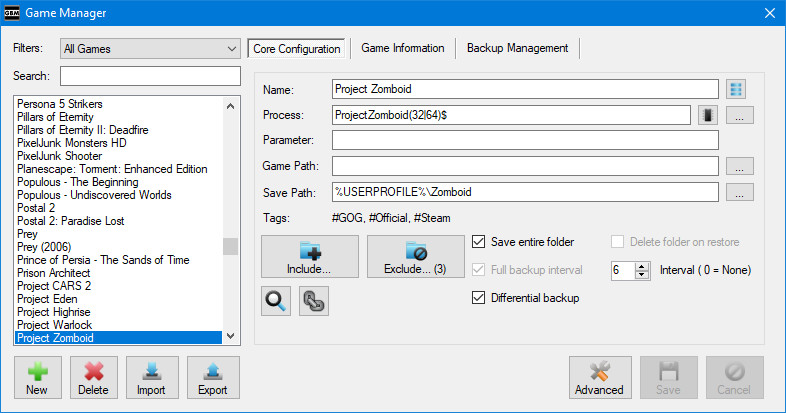
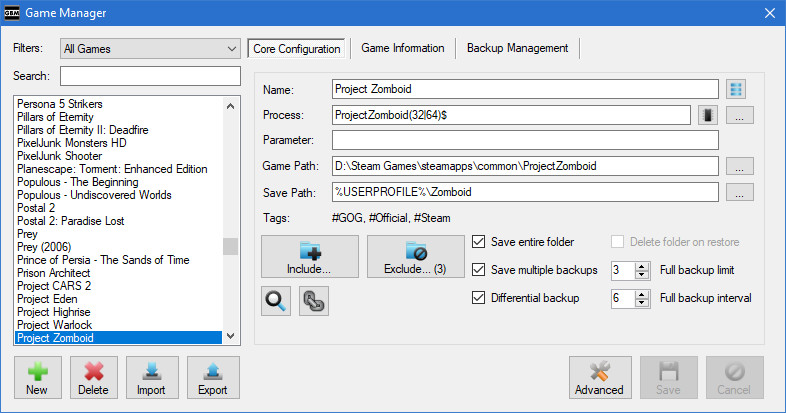
Updates for v128 release

diff --git a/manual.html b/manual.html
@@ -33,7 +33,7 @@
             Game Backup Monitor v1.2.8 Manual
           </div>
           <div class="pageSectionContent">
-            <h3 class="notop">Updated July 23, 2021</h3>
+            <h3 class="notop">Updated August 3, 2021</h3>
             <h3>Important Notes:</h3>
             <p>An offline version of the manual is available <a href="https://github.com/Darthagnon/gbm-manual">here</a>.  The offline manual is kindly provided by <a href="https://github.com/Darthagnon">Darthagnon</a>.</p>
             <p>This manual may contain information about features not available in the current stable release.</p>
@@ -434,8 +434,9 @@
             <p>GBM checks for dangerous configurations in which this option should not be used and disables it, but even so use caution with this option.</p>
             <h4>Save Multiple Backups:</h4>
             <p>This indicates if you want GBM to keep multiple backups for that game.  When using this option you can set a limit on the amount of backups to keep, any value from 0 to 100.  Set the limit to 0 if you'd like to keep an unlimited number of backups, this is the default.  When backups are limited, GBM will delete the oldest backup(s) automatically when new ones are made or if the limit is reduced.</p>
-            <p>Expired backups are only deleted when a new backup for that particular game is made, not at the time a setting is changed.</p>
-            <p>Expired backups are not deleted automatically if the "Save multiple backups" option is disabled after being used.</p>
+            <p>For "Differential Backup" configurations, this setting allows you to set a limit of how many full backup files to keep.  Once the limit it reached, previous full backups and their associated differential backups will be automatically removed.</p>
+            <p>Expired backups are only deleted when a new backup for that particular game is successfully created, not at the time this setting is changed.</p>
+            <p>Expired backups are not deleted automatically if the "Save multiple backups" option is disabled after being used.</p>            
             <p>All expired backups go to the Recycle Bin in Windows, but are permenantly deleted in Linux.</p>
             <h4>Differential Backup:</h4>
             <p>This indicates you'd like to use the differential backup method for this game.  Please see the <a href="#differential">Differential Backups</a> section of the manaul for more details.</p>            
@@ -520,7 +521,7 @@
             <p>Differential backups can be much more efficient for the following types of games:
               <ul>
                 <li>Sandbox or Simulation games with huge worlds.</li>
-                <li>Games that create many checkpoint and autosaves over the course of the game, such as Open world RPGs.</li>
+                <li>Games that create an extreme amount of checkpoints and/or autosaves over the course of the game.</li>
                 <li>Games that save a large amount of historical data in many different files.</li>
               </ul>
             </p>
@@ -528,11 +529,12 @@
             <img class="manual" src="images/manual/manual_37.jpg" width="786" height="413" alt="Differential Backups" />
             <h4>Important Details:</h4>
             <ul>
-              <li>The "Differential backup" option will change the interface when enabled and allow you to set a "Full backup interval" value.
+              <li>The "Differential backup" option will allow you to set a "Full backup interval" value.
                 <ul>
-                  <li>This value is the maximum amount of differential backups between each full backup.</li>
-                  <li>An interval value is highly recommended, the efficiency of differential backups will decrease over time as more and more changes are made to a saved game folder.</li>
-                  <li>A value of zero means there is no interval and only a single full backup will be created.  This is not recommended, but may be useful if you'd like to micromanage when full backups are created.</li>
+                  <li>This value is the maximum amount of differential backups between each full backup.  The default is 6, but the most efficient value will greatly vary depending on the composition of the saved game folder and how many files are changed each session.</li>
+                  <li>By default, only one set of backups will be kept.  Once the "Full backup interval" value is reached, the prior set will be automatically deleted and a new full backup file will be created.</li>
+                  <li>The "Save Multiple Backups" setting can be used to keep multiple sets of backups.</li>
+                  <li>A value of zero means there is no interval and only a single full backup will ever be created.  This is not recommended, but may be useful if you'd like to micromanage when full backups are created.</li>
                 </ul>    
               </li>
               <li>GBM will properly handle backups (Full or Differential) based on their type.  For example:

diff --git a/index.html b/index.html
@@ -45,15 +45,15 @@
           <div class="pageSectionContent">
             <h3 class="notop">Important News</h3>
             <ul>              
-              <li><a href="https://github.com/MikeMaximus/gbm/releases/tag/v1.2.7">v1.2.7</a> has been released!</li>
+              <li><a href="https://github.com/MikeMaximus/gbm/releases/tag/v1.2.8">v1.2.8</a> has been released!</li>
               <li>The <a href="https://github.com/MikeMaximus/gbm/discussions">GitHub Discussions</a> feature is now available.  Stop by if you have comments or questions!</li>
             </ul>
             <h3>Notices</h3>
             <ul>              
-              <li>The <a href="manual.html">manual</a> has been updated to include features added in v1.2.7.</li>  
+              <li>The <a href="manual.html">manual</a> has been updated to include features added in v1.2.8.</li>  
               <li>The <a href="about.html#requirements">system requirements</a> for GBM have been updated.</li>                    
             </ul>
-            <h3>Updated April 27, 2021</h3>
+            <h3>Updated August 3, 2021</h3>
           </div>
         </div>
         <div class="pageSection">
